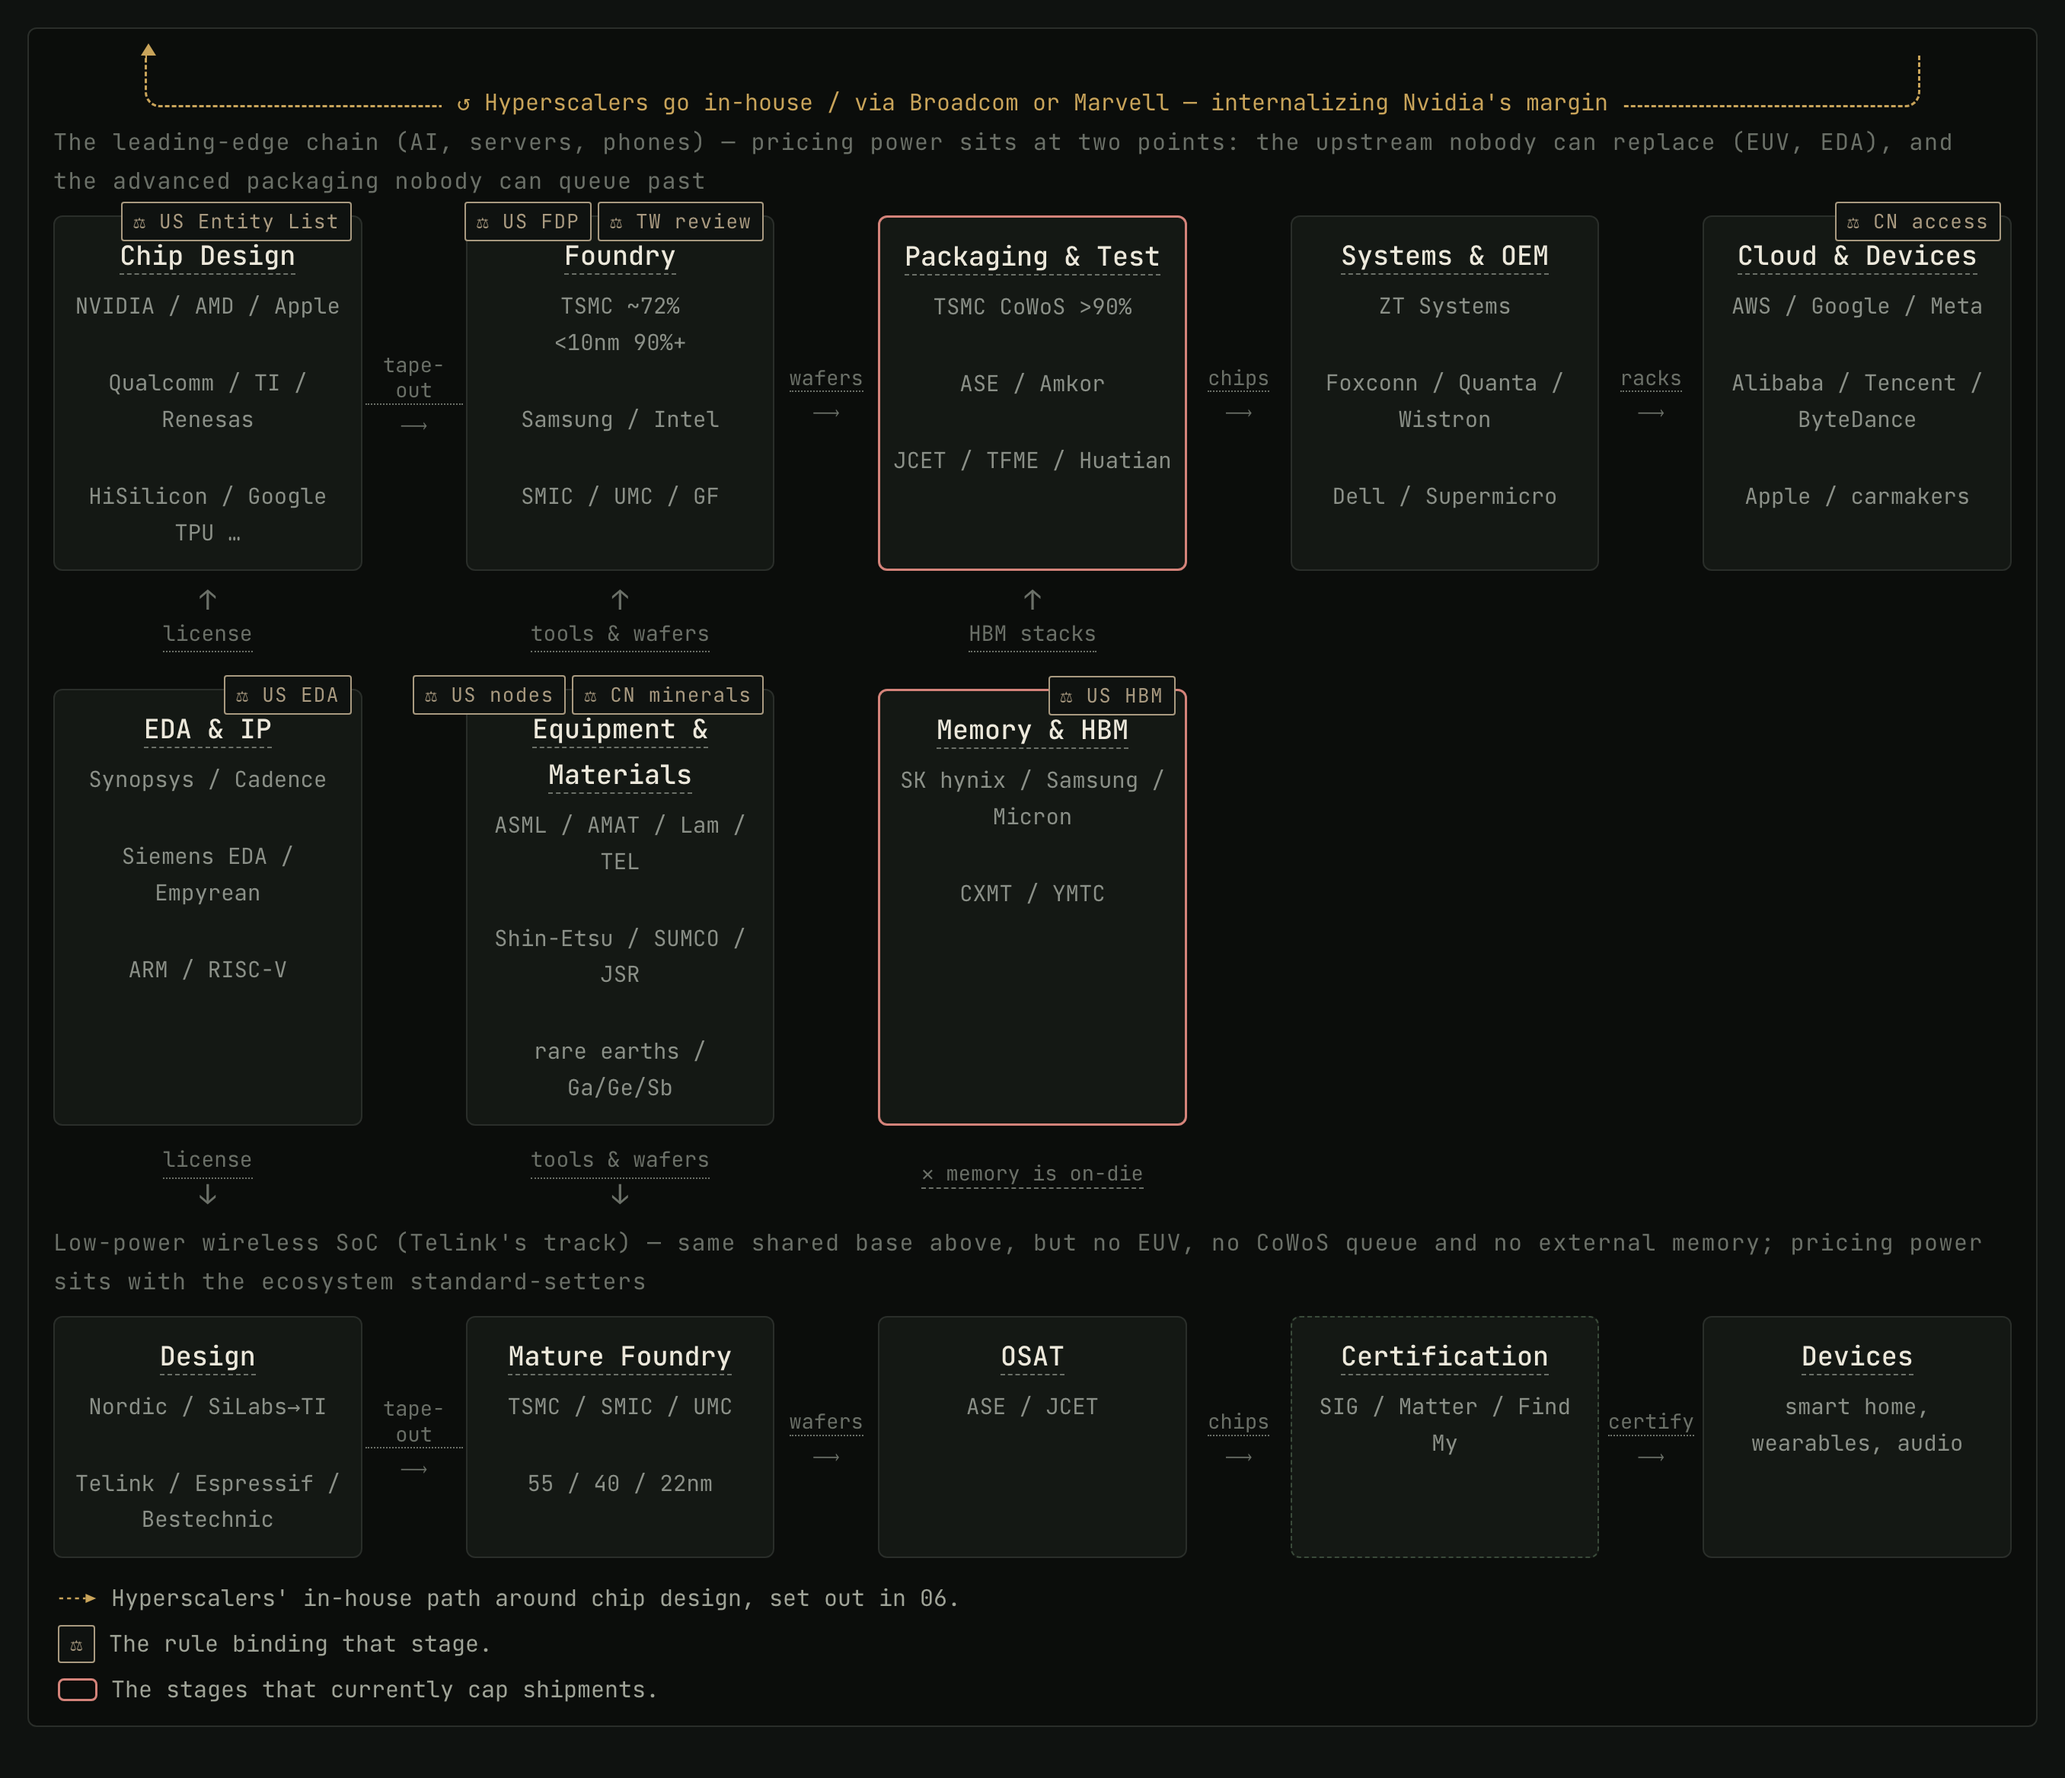
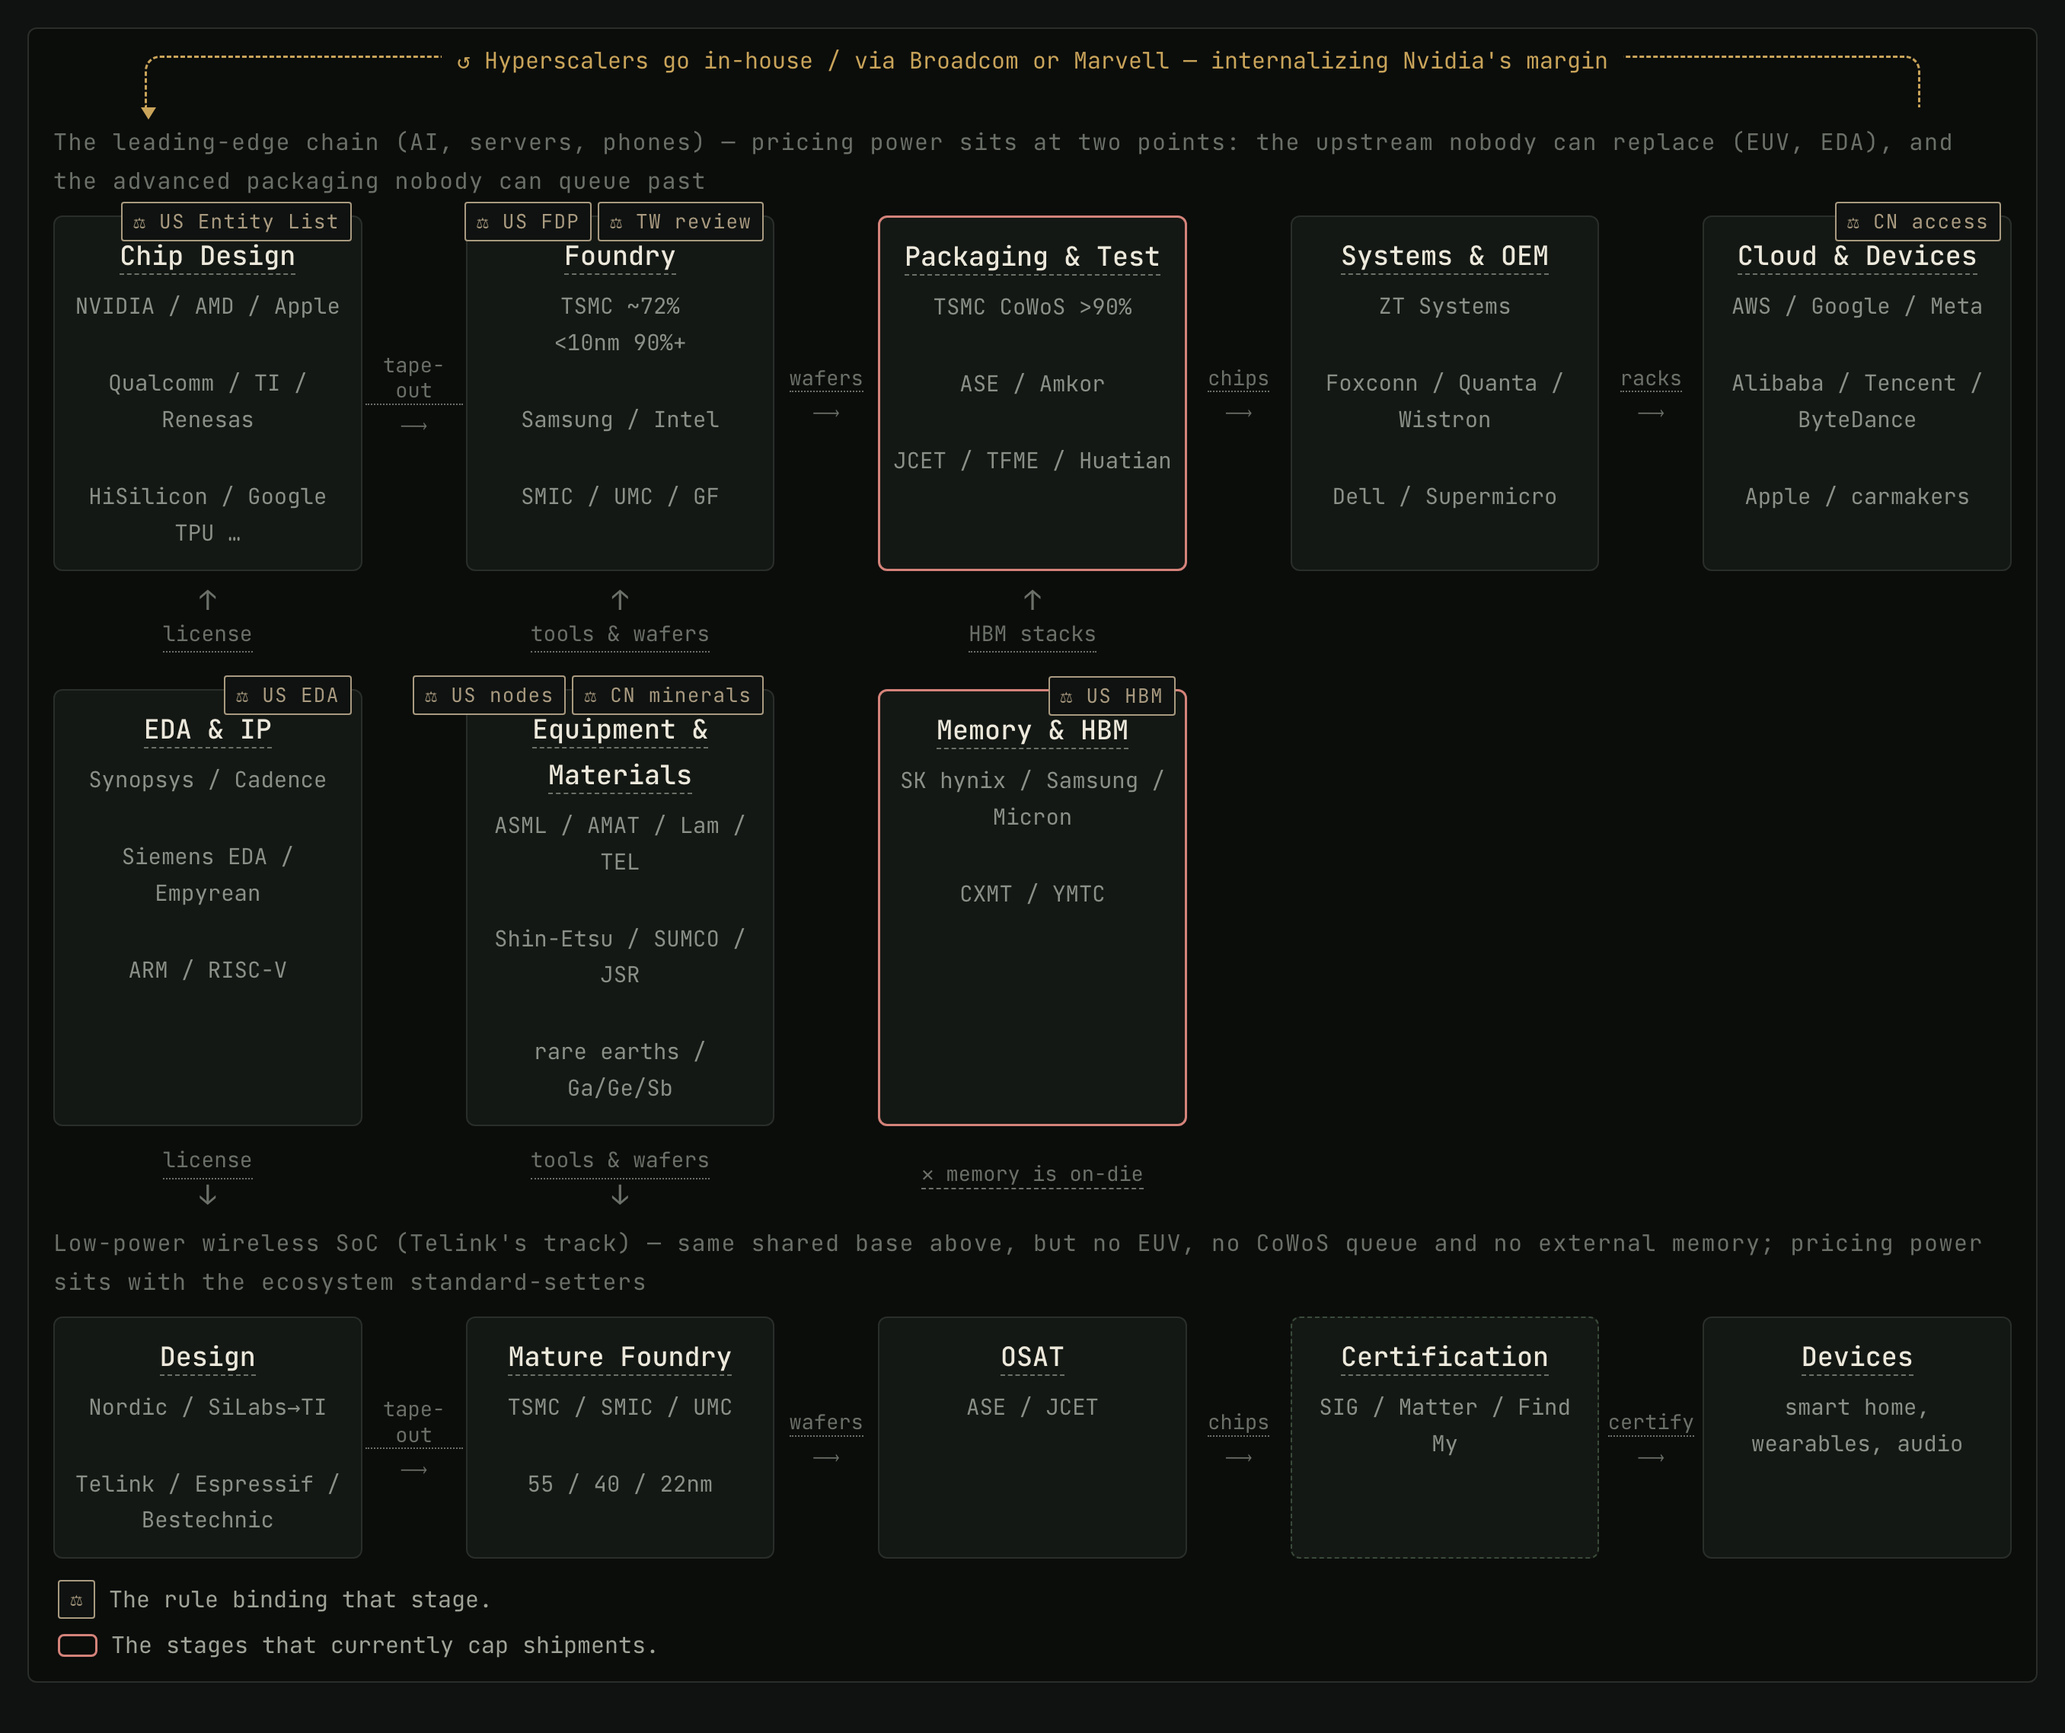
semis: the loop brackets downward now that it sits above the chain
Moving it to the top row left it drawn for its old position: rule along
the bottom, arms reaching up, head pointing up into nothing. It now runs
along the top with both arms dropping to the row and the head pointing
down into chip design.

The legend's loop line goes too — the loop carries its own label, so the
entry only repeated it.

diff --git a/quartz/static/semis/value-chain-map.html b/quartz/static/semis/value-chain-map.html
@@ -277,14 +277,16 @@ h1.article-title{font-size:30px}
   cursor:help;border-bottom:1px solid var(--rule)!important;white-space:nowrap}
 .fpill .tg-tip-box{color:var(--color-text-dim)}
 .fbox.hot{border-color:var(--hot);border-width:1.5px}
+/* the loop now sits above the chain, so it brackets downward: the rule runs
+   along the top and both arms drop to the row, head pointing down into design */
 .fbrk{position:relative;height:34px;margin:0 60px;
-  border:1.5px dashed var(--color-accent-amber);border-top:none;border-radius:0 0 10px 10px;
-  display:flex;align-items:flex-end;justify-content:center}
-.fbrk>.tg-tip{position:relative;top:11px;background:var(--color-surface-dark);
+  border:1.5px dashed var(--color-accent-amber);border-bottom:none;border-radius:10px 10px 0 0;
+  display:flex;align-items:flex-start;justify-content:center}
+.fbrk>.tg-tip{position:relative;top:-11px;background:var(--color-surface-dark);
   padding:0 10px;font-size:15px;color:var(--color-accent-amber);border-bottom:none;cursor:help}
-.fbrk::before{content:"";position:absolute;left:-4.25px;top:-8px;width:0;height:0;
+.fbrk::before{content:"";position:absolute;left:-4.25px;bottom:-8px;width:0;height:0;
   border-left:5px solid transparent;border-right:5px solid transparent;
-  border-bottom:8px solid var(--color-accent-amber)}
+  border-top:8px solid var(--color-accent-amber)}
 .fig .tg-tip .tg-tip-box{bottom:auto;top:calc(100% + 10px);left:50%;
   transform:translate(-50%,-4px);max-width:min(420px,84vw)}
 .fig .tg-tip:hover .tg-tip-box,.fig .tg-tip:focus-within .tg-tip-box{
@@ -401,7 +403,7 @@ h1.article-title{font-size:30px}
 <div class="fcon" style="grid-row:8;grid-column:6"><span class="tg-tip " tabindex="0"><span class="tg-lang zh">芯片</span><span class="tg-lang en">chips</span><span class="tg-tip-box"><span class="tg-lang zh">封好、测完、挑掉坏品之后的成品芯片。</span><span class="tg-lang en">Finished chips: packaged, tested, bad parts culled.</span></span></span><span class="ar">⟶</span></div>
 <div class="fbox dashed" style="grid-row:8;grid-column:7"><span class="ft"><span class="tg-tip " tabindex="0"><span class="tg-lang zh">认证与生态</span><span class="tg-lang en">Certification</span><span class="tg-tip-box"><span class="tg-lang zh"><b>认证与生态</b>。芯片厂控制不了的一道门：Bluetooth SIG、Matter、Find My、各国无线电核准决定「什么算能用的设备」。<b>这道门是这条赛道定价权不在芯片厂手上的原因。</b></span><span class="tg-lang en"><b>Certification & ecosystems</b> — a gate the chip vendor does not control: Bluetooth SIG, Matter, Find My and radio approvals decide what counts as a working device. <b>This gate is why pricing power on this branch does not sit with chip makers.</b></span></span></span></span><span class="fp"><span class="fpl"><span class="sr sr-gl">SIG / Matter / Find My</span></span></span></div>
 <div class="fcon" style="grid-row:8;grid-column:8"><span class="tg-tip " tabindex="0"><span class="tg-lang zh">进生态</span><span class="tg-lang en">certify</span><span class="tg-tip-box"><span class="tg-lang zh">过了认证才能进 Apple / Google / Amazon 的生态。进不去，芯片再好也卖不动。</span><span class="tg-lang en">Certification is the ticket into the Apple / Google / Amazon ecosystems. Without it, a better chip still does not sell.</span></span></span><span class="ar">⟶</span></div>
-<div class="fbox" style="grid-row:8;grid-column:9"><span class="ft"><span class="tg-tip tipR " tabindex="0"><span class="tg-lang zh">终端</span><span class="tg-lang en">Devices</span><span class="tg-tip-box"><span class="tg-lang zh"><b>终端</b>。智能家居、穿戴、音频。一颗芯片几毛到几美元，一辆车、一间屋子里有几十上百颗。</span><span class="tg-lang en"><b>End devices</b> — smart home, wearables, audio. Cents to dollars per chip; dozens to hundreds per car or household.</span></span></span></span><span class="fp"><span class="tg-lang zh">智能家居、穿戴、音频</span><span class="tg-lang en">smart home, wearables, audio</span></span></div></div><figcaption><span class="capline"><svg class="sw sw-loop" viewBox="0 0 30 10" aria-hidden="true"><path d="M1 5H21" stroke="var(--color-accent-amber)" stroke-width="1.5" stroke-dasharray="3 3" fill="none"/><path d="M21 1.6 29 5 21 8.4Z" fill="var(--color-accent-amber)"/></svg><span class="tg-lang zh">云厂商绕过芯片设计的自研回路，详见 06。</span><span class="tg-lang en">Hyperscalers' in-house path around chip design, set out in 06.</span></span><span class="capline"><span class="fpill">⚖</span><span class="tg-lang zh">约束该环节的具体规则。</span><span class="tg-lang en">The rule binding that stage.</span></span><span class="capline"><i class="sw sw-hot"></i><span class="tg-lang zh">当前真正限制出货的环节。</span><span class="tg-lang en">The stages that currently cap shipments.</span></span></figcaption></figure>
+<div class="fbox" style="grid-row:8;grid-column:9"><span class="ft"><span class="tg-tip tipR " tabindex="0"><span class="tg-lang zh">终端</span><span class="tg-lang en">Devices</span><span class="tg-tip-box"><span class="tg-lang zh"><b>终端</b>。智能家居、穿戴、音频。一颗芯片几毛到几美元，一辆车、一间屋子里有几十上百颗。</span><span class="tg-lang en"><b>End devices</b> — smart home, wearables, audio. Cents to dollars per chip; dozens to hundreds per car or household.</span></span></span></span><span class="fp"><span class="tg-lang zh">智能家居、穿戴、音频</span><span class="tg-lang en">smart home, wearables, audio</span></span></div></div><figcaption><span class="capline"><span class="fpill">⚖</span><span class="tg-lang zh">约束该环节的具体规则。</span><span class="tg-lang en">The rule binding that stage.</span></span><span class="capline"><i class="sw sw-hot"></i><span class="tg-lang zh">当前真正限制出货的环节。</span><span class="tg-lang en">The stages that currently cap shipments.</span></span></figcaption></figure>
 <p class="govhead"><span class="tg-lang zh">三套管辖权——悬停看规则细节</span><span class="tg-lang en">Three jurisdictions — hover for the rules</span></p>
 <div class="govwrap"><div class="govcard g-us tg-tip" tabindex="0"><b>美国管辖 / US jurisdiction</b><em><span class="tg-lang zh">EDA / 设备 / 先进逻辑 / HBM</span><span class="tg-lang en">EDA / tools / leading-edge logic / HBM</span></em><span class="tg-tip-box"><span class="tg-lang zh"><b>FDP 规则 + 实体清单 + BIS 许可</b>。只要一件外国制造的产品是用美国技术「直接生产」的，美国就主张管辖权——不论它在哪造。这才是台积电受美国法律约束的原因。2022 年 10 月 7 日的规则设定了 16/14nm 逻辑、18nm DRAM、128 层 NAND 的门槛；2024 年 12 月又把 FDP 扩展到设备本身。</span><span class="tg-lang en"><b>FDP rule + Entity List + BIS licensing.</b> If a foreign-made item is the direct product of US technology, Washington claims jurisdiction — wherever it was made. That, not its customer list, is why TSMC is bound by US law. The 7 Oct 2022 rule set thresholds at 16/14nm logic, 18nm DRAM, 128-layer NAND; Dec 2024 extended FDP to equipment itself.</span></span></div><div class="govcard g-cn tg-tip" tabindex="0"><b>中国管辖 / China jurisdiction</b><em><span class="tg-lang zh">稀土 / 镓锗锑 / 最终用途</span><span class="tg-lang en">rare earths / Ga-Ge-Sb / end-use</span></em><span class="tg-tip-box"><span class="tg-lang zh"><b>0.1% 微量规则 + 两用物项管制</b>。2025 年 10 月 9 日商务部第 61/62 号公告：外国制造的商品只要含 0.1% 以上中国原产稀土，出口就需中国许可。<b>结构上与美国 FDP 规则同构。</b>釜山会晤后暂停至 2026 年 11 月 10 日。</span><span class="tg-lang en"><b>The 0.1% de minimis rule + dual-use controls.</b> MOFCOM Notices 61/62 of 9 Oct 2025: any foreign-made good with ≥0.1% Chinese-origin rare-earth content needs a Chinese export licence. <b>Structurally isomorphic to the US FDP rule.</b> Suspended after Busan until 10 Nov 2026.</span></span></div><div class="govcard g-tw tg-tip" tabindex="0"><b>台湾管辖 / Taiwan jurisdiction</b><em><span class="tg-lang zh">代工出海 / 制程外移</span><span class="tg-lang en">overseas fabs / node migration</span></em><span class="tg-tip-box"><span class="tg-lang zh"><b>N-1 原则 + 产创条例第 22 条</b>。海外制程至少落后本土一代。<b>从来不是成文禁令，而是通过投资审查行使的裁量性规范</b>，2025 年 1 月 11 日被经济部长公开松绑，此后持续放宽。</span><span class="tg-lang en"><b>The N-1 rule + Article 22 review.</b> Overseas nodes must trail home by a generation. <b>Never a codified ban — a discretionary norm applied through investment review</b>, publicly relaxed by the economics minister on 11 Jan 2025 and loosened since.</span></span></div></div>
 
